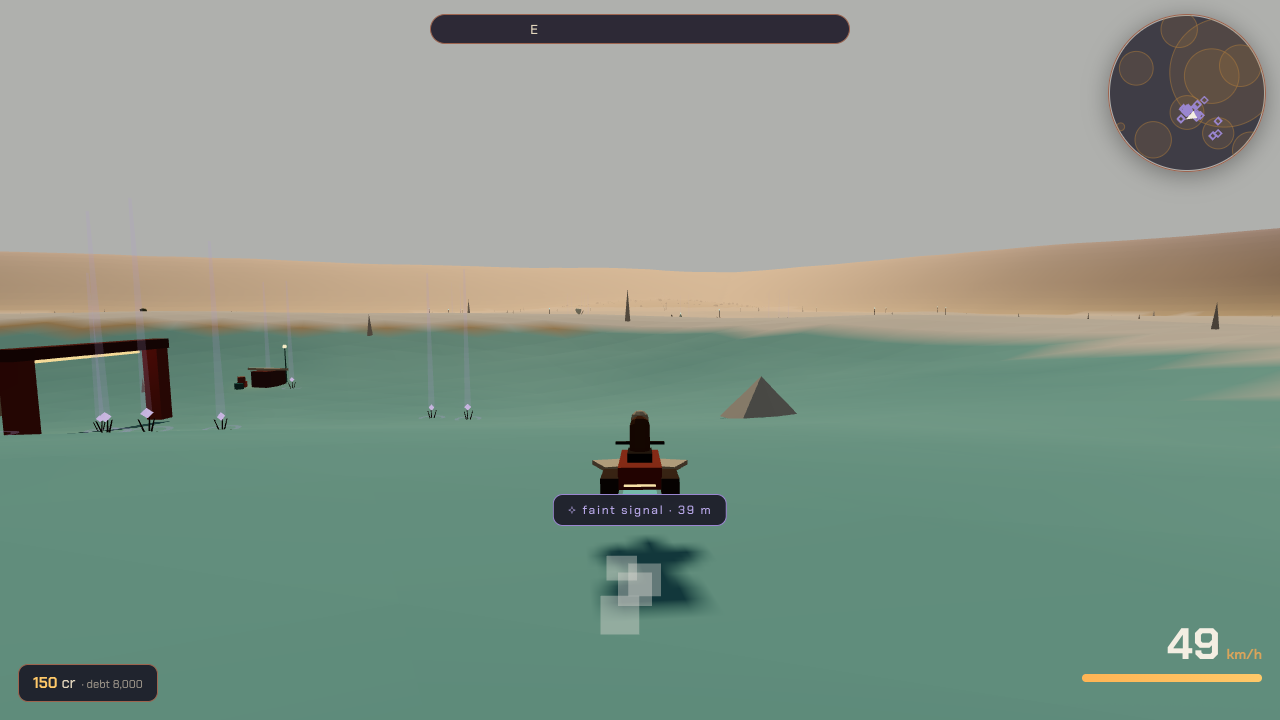
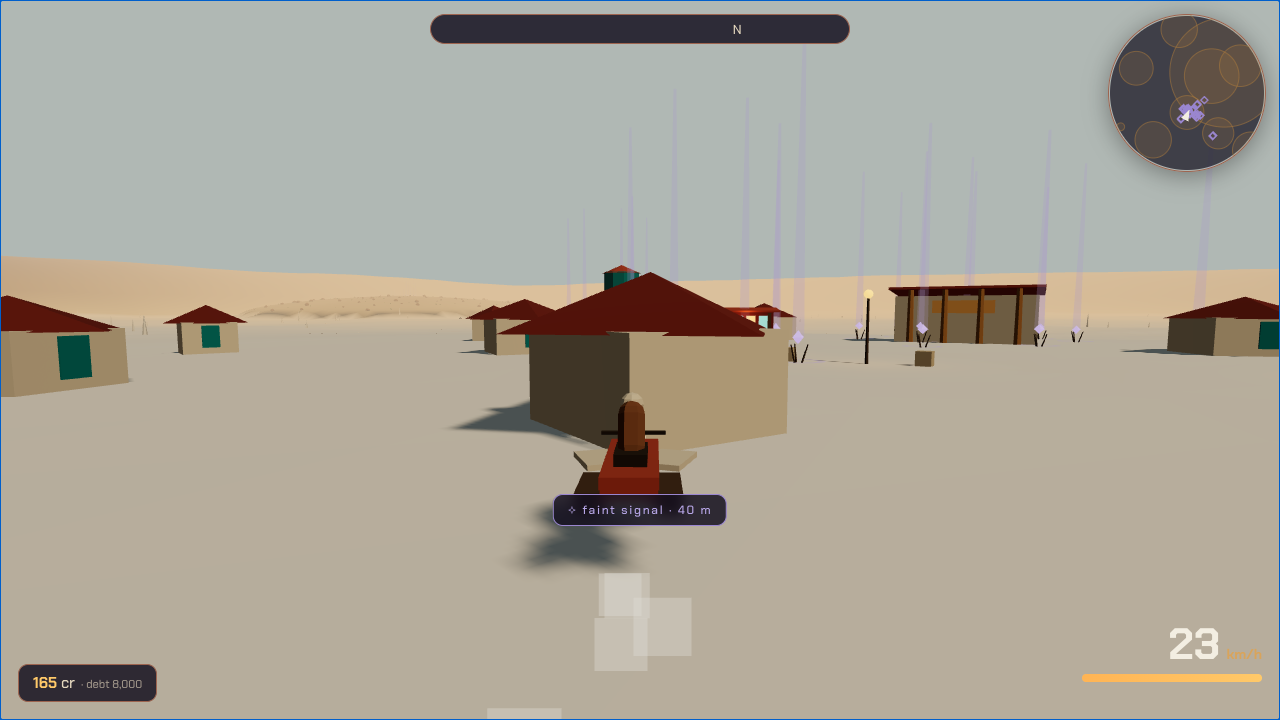
builder builder #12: Builder iter 12: lab→game tuning (handling-scaled drift-exit kick/refund in Bike.tsx + garage blurb; cache glimmer 0.09→0.13), benches re-mirrored, portraits rounds 9–10 → FULL HO

diff --git a/src/world/regions/upgrade-curve-sandbox/Graphs.tsx b/src/world/regions/upgrade-curve-sandbox/Graphs.tsx
@@ -8,7 +8,7 @@ import React, { useEffect, useRef } from 'react';
 import {
   PHYS, STOCK, KMH, TAPE_S, BOOST_ON_T,
   runLaunch, terminalMs, boostHoldS, boostRefillS,
-  kickOf, refundOf, levelCost, levelCosts, maxLevel,
+  kickOf, refundOf, kickCapOf, refundCapOf, levelCost, levelCosts, maxLevel,
   type Ladder, type Pips, type Run,
 } from './physics';
 
@@ -197,16 +197,19 @@ function boostDutyPct(level: number) {
 
 /* ------------------------------------------------- FIG 3 drift-exit kick */
 
-function drawKick(ctx: Ctx, w: number, h: number) {
+function drawKick(ctx: Ctx, w: number, h: number, pips: Pips, ladder: Ladder) {
   const xMax = 4;
+  const L = maxLevel(ladder);
+  const kMax = Math.ceil((kickCapOf(L) * 1.15) / 2) * 2; // headroom past the top cap
+  const rMax = refundCapOf(L) * 1.18;
   const b = bounds(w, h);
   const X = (t: number) => b.x0 + (t / xMax) * (b.x1 - b.x0);
-  const Y = (k: number) => b.y1 - (k / 5) * (b.y1 - b.y0);
-  const Y2 = (m: number) => b.y1 - (m / 0.35) * (b.y1 - b.y0);
+  const Y = (k: number) => b.y1 - (k / kMax) * (b.y1 - b.y0);
+  const Y2 = (m: number) => b.y1 - (m / rMax) * (b.y1 - b.y0);
 
   frame(ctx, b,
     [0, 1, 2, 3, 4].map((t) => ({ v: t, label: `${t}s` })),
-    [0, 1.25, 2.5, 3.75, 5].map((v) => ({ v, label: v.toFixed(v % 1 ? 2 : 0) })), X, Y);
+    [0, 0.25, 0.5, 0.75, 1].map((f) => ({ v: f * kMax, label: (f * kMax).toFixed(f * kMax % 1 ? 1 : 0) })), X, Y);
   txt(ctx, 'kick impulse →', ML - 42, MT - 8, INK_SOFT, 'left', 9);
 
   ctx.save();
@@ -214,22 +217,33 @@ function drawKick(ctx: Ctx, w: number, h: number) {
   ctx.fillRect(b.x0, b.y0, b.x1 - b.x0, b.y1 - b.y0);
   ctx.restore();
 
-  // drift hold curve
+  // stock ghost (handling 0)
+  const ghost: [number, number][] = [];
+  for (let t = 0; t <= xMax; t += 0.05) ghost.push([X(t), Y(kickOf(t, 0))]);
+  line(ctx, ghost, 'rgba(27,21,38,0.35)', 1.6);
+  line(ctx, [[b.x0, Y(kickCapOf(0))], [b.x1, Y(kickCapOf(0))]], 'rgba(27,21,38,0.28)', 1, [3, 4]);
+
+  // current fit drift-hold curve
+  const cap = kickCapOf(pips.handling);
   const pts: [number, number][] = [];
-  for (let t = 0; t <= xMax; t += 0.05) pts.push([X(t), Y(kickOf(t))]);
+  for (let t = 0; t <= xMax; t += 0.05) pts.push([X(t), Y(kickOf(t, pips.handling))]);
   line(ctx, pts, RUST, 2.4);
-  line(ctx, [[b.x0, Y(PHYS.kickCap)], [b.x1, Y(PHYS.kickCap)]], OCHRE_TXT, 1, [5, 4]);
-  dot(ctx, X(PHYS.kickCap / PHYS.kickPerS), Y(PHYS.kickCap));
-  txt(ctx, `caps at ${PHYS.kickCap} · ${(PHYS.kickCap / PHYS.kickPerS).toFixed(2)} s held`, X(2.0), Y(PHYS.kickCap) - 11, RUST_DEEP);
+  line(ctx, [[b.x0, Y(cap)], [b.x1, Y(cap)]], OCHRE_TXT, 1, [5, 4]);
+  dot(ctx, X(cap / (PHYS.kickPerS * (1 + pips.handling * PHYS.driftGainPerHandling))), Y(cap));
+  txt(ctx, `L${pips.handling} caps at ${cap.toFixed(1)} · ${(cap / (PHYS.kickPerS * (1 + pips.handling * PHYS.driftGainPerHandling))).toFixed(2)} s held`, X(2.0), Y(cap) - 11, RUST_DEEP);
 
-  // meter refund (right axis)
+  // meter refund (right axis) — stock ghost then current
+  const ghost2: [number, number][] = [];
+  for (let t = 0; t <= xMax; t += 0.05) ghost2.push([X(t), Y2(refundOf(t, 0))]);
+  line(ctx, ghost2, 'rgba(46,140,140,0.35)', 1.2, [3, 4]);
+  const rcap = refundCapOf(pips.handling);
   const pts2: [number, number][] = [];
-  for (let t = 0; t <= xMax; t += 0.05) pts2.push([X(t), Y2(refundOf(t))]);
+  for (let t = 0; t <= xMax; t += 0.05) pts2.push([X(t), Y2(refundOf(t, pips.handling))]);
   line(ctx, pts2, TEAL, 1.8, [6, 4]);
-  dot(ctx, X(PHYS.refundCap / PHYS.refundPerS), Y2(PHYS.refundCap), 2.8, '#9ADBD4');
-  txt(ctx, 'meter refund 0.35 @ 3.5 s', b.x1 - 4, Y2(0.35) - 10, TEAL, 'right', 9.5);
+  dot(ctx, X(rcap / (PHYS.refundPerS * (1 + pips.handling * PHYS.driftGainPerHandling))), Y2(rcap), 2.8, '#9ADBD4');
+  txt(ctx, `refund ${rcap.toFixed(2)} @ ${(rcap / (PHYS.refundPerS * (1 + pips.handling * PHYS.driftGainPerHandling))).toFixed(1)} s`, b.x1 - 4, Y2(rcap) - 10, TEAL, 'right', 9.5);
 
-  txt(ctx, 'NOTHING HERE COSTS A CREDIT — kick & refund are pip-independent in the shipped build.',
+  txt(ctx, 'The gyro cage pays at the exit — same slide, fatter kick, deeper refund.',
     (b.x0 + b.x1) / 2, b.y1 - 12, TEAL, 'center', 9.5);
 }
 
@@ -424,14 +438,15 @@ export function LedgerFigures({ pips, ladder, avgCr }: { pips: Pips; ladder: Lad
       />
       <Figure
         n="03" title="Drift-exit — kick & refund"
-        aria="Drift exit impulse and boost-meter refund against drift hold time; identical at every upgrade level."
-        deps={[]}
+        aria="Drift exit impulse and boost-meter refund against drift hold time, stock versus the current handling fit."
+        deps={[pips.handling, ladder]}
         legend={<>
-          <Swatch kind="rust" label="kick impulse" />
-          <Swatch kind="teal" label="meter refund" />
+          <Swatch kind="rust" label={`kick · handling L${pips.handling}`} />
+          <Swatch kind="teal" label="meter refund · current" />
+          <Swatch kind="ghost" label="stock (L0)" />
         </>}
-        foot={<>Skill pays here, not credits. If handling is to matter at the exit, hook the cap (4.5) or the per-second rate (2.4) to a pip.</>}
-        draw={(ctx, w, h) => drawKick(ctx, w, h)}
+        foot={<>Since builder iter 12 the gyro cage reaps exits: rate ×(1+0.14·level), caps 4.5+0.9·level impulse and 0.35+0.05·level meter — handling now buys drift economy, not just steering.</>}
+        draw={(ctx, w, h) => drawKick(ctx, w, h, pips, ladder)}
       />
       <Figure
         n="04" title="Top speed per coil level"

diff --git a/src/world/regions/upgrade-curve-sandbox/physics.ts b/src/world/regions/upgrade-curve-sandbox/physics.ts
@@ -10,7 +10,9 @@
  *   steer  = (1.9 + handling*0.22) / (1 + speed/30)
  *   drain  = 0.26 - boost*0.035   per second while boosting (meter > 0.02)
  *   regen  = 0.07 + boost*0.02 (+0.01 airborne) per second otherwise
- *   kick   = min(4.5, driftT*2.4) impulse, refund = min(0.35, driftT*0.1)
+ *   driftGain = 1 + handling*0.14 (builder iter 12 — gyros now reap drift exits)
+ *   kick   = min(4.5 + handling*0.9, driftT*2.4*driftGain) impulse
+ *   refund = min(0.35 + handling*0.05, driftT*0.1*driftGain) meter
  *
  * The launch sim integrates the grounded straight-line slice of the physics
  * loop (throttle pinned, salt-pan grip 1) so the graphs, the skidpad replay
@@ -35,6 +37,10 @@ export const PHYS = {
   boostMin: 0.02,
   kickPerS: 2.4, kickCap: 4.5,
   refundPerS: 0.1, refundCap: 0.35,
+  // builder iter 12: handling ladder now scales drift-exit returns (was Fig 03's finding)
+  driftGainPerHandling: 0.14,
+  kickCapPerHandling: 0.9,
+  refundCapPerHandling: 0.05,
 } as const;
 
 export const SHIPPED_MAX = 3;
@@ -87,8 +93,12 @@ export const terminalMs = (e: number, boosting: boolean) => {
 export const steerRateAt = (kmh: number, h: number) =>
   (PHYS.steerBase + PHYS.steerPerHandling * h) / (1 + kmh / KMH / PHYS.steerFalloff);
 
-export const kickOf = (driftT: number) => Math.min(PHYS.kickCap, driftT * PHYS.kickPerS);
-export const refundOf = (driftT: number) => Math.min(PHYS.refundCap, driftT * PHYS.refundPerS);
+export const kickCapOf = (handling: number) => PHYS.kickCap + handling * PHYS.kickCapPerHandling;
+export const kickOf = (driftT: number, handling = 0) =>
+  Math.min(kickCapOf(handling), driftT * PHYS.kickPerS * (1 + handling * PHYS.driftGainPerHandling));
+export const refundCapOf = (handling: number) => PHYS.refundCap + handling * PHYS.refundCapPerHandling;
+export const refundOf = (driftT: number, handling = 0) =>
+  Math.min(refundCapOf(handling), driftT * PHYS.refundPerS * (1 + handling * PHYS.driftGainPerHandling));
 export const KICK_CAP_T = PHYS.kickCap / PHYS.kickPerS; // 1.875 s
 
 export const HUNDRED_MS = 100 / KMH; // 100 km/h in m/s, on the game's own factor
@@ -227,7 +237,7 @@ export function exportPayload(pips: Pips, ladder: Ladder, m: Metrics, stock: Met
     },
     notes: [
       'Flat salt pan, grip 1, throttle pinned; launch script boosts from t=0.7 s.',
-      'Drift-exit kick and meter refund are pip-independent constants in the shipped build (kick cap 4.5 @ 1.875 s).',
+      'Drift-exit returns scale with the handling ladder since builder iter 12 (gain ×(1+0.14·level); caps 4.5+0.9·level kick impulse, 0.35+0.05·level meter refund).',
       ladder === 'dream'
         ? 'DREAM LADDER: levels 4–5 extrapolate shipped linear per-level gains; costs double past 1800. Not shipped.'
         : 'Shipped ladder 0–3, cost ladder [400, 900, 1800] per part (GaragePanel.tsx).',

diff --git a/src/world/regions/signal-cache-bench/meta.ts b/src/world/regions/signal-cache-bench/meta.ts
@@ -11,7 +11,7 @@ export const meta = {
   tags: ['exploration', 'readability', 'accessibility', 'cvd', 'r3f'],
   client: 'Driftline exploration & accessibility strike team',
   caseStudy:
-    'DESIGN.md reserves lore-violet #9A86D0 for codex finds and forbids colour-only signage, but the cache pickup had never been audited end-to-end: the octahedron\'s emissive 1.5, the 0.09-opacity glimmer and the 13 m capture ring were tuned by eye on a sunny salt flat, and nobody had watched them against a dusk horizon, a night sky or a storm wall. This bench renders the shipping assembly from SignalCaches.tsx on a distance ladder that runs past the 340 m hail cutoff, swaps the sky for the real day/dusk/night keyframes from Sky.tsx, and lays sand-haze storm fog over the top. The shipping HUD chip and minimap diamond are rebuilt as live replicas — the chip even drops out past 340 m like the real store logic — so 3D beacon and 2D chrome pass or fail together, under Machado CVD matrices applied to the whole stage. Sliders for emissive, glimmer and ring opacity feed contrast tables that grade against honest bars, and the separation table proves the violet stays distinct from every mission colour — and when it nearly doesn\'t under deuteranopia, that the ⟡ glyph and open-diamond shape still name it.',
+    'DESIGN.md reserves lore-violet #9A86D0 for codex finds and forbids colour-only signage, but the cache pickup had never been audited end-to-end: the octahedron\'s emissive 1.5, the 0.09-opacity glimmer (since tuned to 0.13) and the 13 m capture ring were first tuned by eye on a sunny salt flat, and nobody had watched them against a dusk horizon, a night sky or a storm wall. This bench renders the shipping assembly from SignalCaches.tsx on a distance ladder that runs past the 340 m hail cutoff, swaps the sky for the real day/dusk/night keyframes from Sky.tsx, and lays sand-haze storm fog over the top. The shipping HUD chip and minimap diamond are rebuilt as live replicas — the chip even drops out past 340 m like the real store logic — so 3D beacon and 2D chrome pass or fail together, under Machado CVD matrices applied to the whole stage. Sliders for emissive, glimmer and ring opacity feed contrast tables that grade against honest bars, and the separation table proves the violet stays distinct from every mission colour — and when it nearly doesn\'t under deuteranopia, that the ⟡ glyph and open-diamond shape still name it.',
 };
 
 export default meta;

diff --git a/src/world/regions/rep-reaction-atlas/meta.ts b/src/world/regions/rep-reaction-atlas/meta.ts
@@ -1,0 +1,17 @@
+/**
+ * Rep Reaction Atlas — demo meta. Follows the demo sheet format
+ * ({ title, description, tags, client, caseStudy }); `blurb` feeds lab cards.
+ */
+export const meta = {
+  title: 'Rep Reaction Atlas',
+  description:
+    'A dispatch-office card table for the reputation system. Scrub Salt Guild ◆, Choir ◉ and Reclaimer ▲ standing from hostile to kin on amber needle gauges, then run a seeded courier around a scripted ten-band survey ride while the bench restages the exact shipping radio pipeline — band detection, weight rules, voice picks and subtitle lines, live from the character library. Three faction-coloured ledger columns break down which surfaces answer to standing (radio airtime) and which stay silent (what they say, NPC callouts, board gates, shop prices); a coverage matrix read straight from the live mailing lists marks every cell shipped / runtime-ready / gap with glyph + colour, and flags the findings — the unreachable hostile band, ghost driftline rep, the workshed sandbox leaking its own radio band — with a copy-ready claim sheet for the writers.',
+  blurb:
+    'Scrub faction standing from hostile to kin and watch the desert change its voice: a scripted ride restages the exact radio/bark pipeline, gauges show what ships at each band, and the coverage matrix flags the gaps writers can claim.',
+  tags: ['tool', 'reputation', 'radio', 'factions', 'content-coverage'],
+  client: 'Driftline dispatch office',
+  caseStudy:
+    'Reputation had three ways to matter on paper — radio weighting, board gates, shop prices — but only one shipped, and nobody could see it. The Atlas restages the shipping pipeline honestly: the band rule, the weight formula and the chatter cadence are mirrored line-for-line from the HUD, fed by the live character and mission libraries with no fixtures. Sliders stand in for standing; a scripted courier loops every on-world band so each faction is heard at home and abroad. Needle gauges tag every standing with its posture band (hostile/wary/neutral/friendly/kin, matching the ledger bench’s rail proposal), and a coverage matrix separates shipped behaviour from runtime-ready hooks from true gaps — shape + colour, never colour alone. The export button copies the whole sheet as a claim list for writers.',
+};
+
+export default meta;

diff --git a/src/world/regions/upgrade-curve-sandbox/Controls.tsx b/src/world/regions/upgrade-curve-sandbox/Controls.tsx
@@ -7,14 +7,14 @@
 import { useMemo, useState } from 'react';
 import {
   PHYS, STOCK, PRESETS, KMH, HUNDRED_MS,
-  computeMetrics, levelCost, maxLevel, totalSunk,
+  computeMetrics, kickCapOf, levelCost, maxLevel, totalSunk,
   exportPayload, AVG_MISSION_CR,
   type Ladder, type Pips, type PartKey, type Metrics,
 } from './physics';
 
 const PARTS: { key: PartKey; name: string; moves: string }[] = [
   { key: 'engine', name: 'Engine coils', moves: `accel +${PHYS.accPerEngine}/lvl · cap +${PHYS.vmaxPerEngine}/lvl` },
-  { key: 'handling', name: 'Gyro cage', moves: `steer +${PHYS.steerPerHandling}/lvl · grip +1.6/lvl` },
+  { key: 'handling', name: 'Gyro cage', moves: `steer +${PHYS.steerPerHandling}/lvl · grip +1.6/lvl · drift ×1.14/lvl` },
   { key: 'boost', name: 'Boost cell', moves: `drain −${PHYS.drainPerBoost}/lvl · regen +${PHYS.regenPerBoost}/lvl` },
 ];
 
@@ -31,7 +31,7 @@ function fmtDelta(cur: number | null, stock: number | null, unit: string, invert
 
 /* --------------------------------------------------------- delta ledger */
 
-function DeltaLedger({ m, stock }: { m: Metrics; stock: Metrics }) {
+function DeltaLedger({ m, stock, handling }: { m: Metrics; stock: Metrics; handling: number }) {
   const rows: { label: string; cur: string; ref: string; delta: { s: string; cls: string } }[] = [
     {
       label: '0→100 km/h · boost tape',
@@ -67,8 +67,8 @@ function DeltaLedger({ m, stock }: { m: Metrics; stock: Metrics }) {
     },
     {
       label: 'drift-exit kick cap',
-      cur: `${PHYS.kickCap} impulse`, ref: `${PHYS.kickCap} impulse`,
-      delta: { s: '±0 · free', cls: '' },
+      cur: `${kickCapOf(handling).toFixed(1)} impulse`, ref: `${kickCapOf(0).toFixed(1)} impulse`,
+      delta: fmtDelta(kickCapOf(handling), kickCapOf(0), ''),
     },
   ];
   return (
@@ -185,7 +185,7 @@ export function BenchPanel({ pips, ladder, onPips, onLadder }: BenchPanelProps) 
         {ladder === 'dream' && <em className="ucs-dream-note">dream ladder — same linear gains, ×2 cost. Not shipped.</em>}
       </div>
 
-      <DeltaLedger m={m} stock={stock} />
+      <DeltaLedger m={m} stock={stock} handling={pips.handling} />
 
       <div className="ucs-bench-row">
         <button

diff --git a/src/game/Bike.tsx b/src/game/Bike.tsx
@@ -97,13 +97,15 @@ export default function Bike() {
       c.driftTime += dt;
       c.wasDrifting = true;
     } else if (c.wasDrifting) {
-      // boost-on-exit reward
-      const reward = Math.min(0.35, c.driftTime * 0.1);
+      // boost-on-exit reward — a tuned gyro cage reaps more from the same slide
+      // (upgrade-curve-sandbox Fig 03: refund cap/rate + kick were pip-independent)
+      const driftGain = 1 + up.handling * 0.14;
+      const reward = Math.min(0.35 + up.handling * 0.05, c.driftTime * 0.1 * driftGain);
       if (reward > 0.04) {
         c.boost = Math.min(1, c.boost + reward);
-        const kick = Math.min(4.5, c.driftTime * 2.4);
+        const kick = Math.min(4.5 + up.handling * 0.9, c.driftTime * 2.4 * driftGain);
         body.applyImpulse({ x: _fwd.x * kick, y: 0, z: _fwd.z * kick }, true);
-        audio.blip(520, 0.1);
+        audio.blip(520 + up.handling * 40, 0.1);
       }
       if (c.driftTime > 0.4) {
         ride.bestDriftS = Math.max(ride.bestDriftS, c.driftTime);

diff --git a/src/world/regions/signal-cache-bench/spec.ts b/src/world/regions/signal-cache-bench/spec.ts
@@ -22,7 +22,7 @@ export interface BenchConfig {
   ladder: LadderId;
   /** octahedron emissive intensity (shipped 1.5) */
   emissive: number;
-  /** glimmer beam opacity (shipped 0.09) */
+  /** glimmer beam opacity (shipped 0.13 — builder iter 12 storm/dusk tune) */
   glimmer: number;
   /** ground ring opacity (shipped 0.3) */
   ring: number;
@@ -35,7 +35,7 @@ export const DEFAULT_CONFIG: BenchConfig = {
   storm: 'off',
   ladder: 'standard',
   emissive: 1.5,
-  glimmer: 0.09,
+  glimmer: 0.13,
   ring: 0.3,
   motion: true,
   cvd: 'none',
@@ -66,7 +66,7 @@ export const SHIPPED = {
     y: 0.7,
   },
   ring: { inner: 1.5, outer: 2.1, opacity: 0.3, y: 0.12 },
-  glimmer: { height: 22, rTop: 0.14, rBottom: 0.5, opacity: 0.09, yOff: 11 },
+  glimmer: { height: 22, rTop: 0.14, rBottom: 0.5, opacity: 0.13, yOff: 11 },
   captureRadius: 13, // caches.ts CAPTURE_RADIUS
   hintRange: 340, // caches.ts HINT_RANGE — hail cutoff for chip/minimap feed
   bounty: 15,

diff --git a/src/game/SignalCaches.tsx b/src/game/SignalCaches.tsx
@@ -94,7 +94,7 @@ export default function SignalCaches() {
             {/* faint vertical glimmer so caches read at range against the sky */}
             <mesh position={[0, 11, 0]}>
               <cylinderGeometry args={[0.14, 0.5, 22, 6, 1, true]} />
-              <meshBasicMaterial color={CACHE_VIOLET} transparent opacity={0.09} side={THREE.DoubleSide} depthWrite={false} />
+              <meshBasicMaterial color={CACHE_VIOLET} transparent opacity={0.13} side={THREE.DoubleSide} depthWrite={false} />
             </mesh>
           </group>
         </group>

diff --git a/src/world/regions/signal-cache-bench/Panel.tsx b/src/world/regions/signal-cache-bench/Panel.tsx
@@ -210,7 +210,7 @@ export function BenchPanel({ cfg, onChange }: { cfg: BenchConfig; onChange: (c: 
         />
       </label>
       <label className="scb-slider">
-        <span>glimmer opacity <b>{cfg.glimmer.toFixed(3)}</b><em>shipped 0.090</em></span>
+        <span>glimmer opacity <b>{cfg.glimmer.toFixed(3)}</b><em>shipped 0.130</em></span>
         <input
           type="range" min={0} max={0.3} step={0.005} value={cfg.glimmer}
           onChange={(e) => onChange({ ...cfg, glimmer: +e.target.value })}

diff --git a/src/ui/GaragePanel.tsx b/src/ui/GaragePanel.tsx
@@ -8,7 +8,7 @@ import { audio } from '../audio/audio';
 const PART_COSTS = [400, 900, 1800];
 const PARTS = [
   { key: 'engine', name: 'Engine coils', blurb: '+accel, +top speed' },
-  { key: 'handling', name: 'Gyro cage', blurb: '+steering, +grip' },
+  { key: 'handling', name: 'Gyro cage', blurb: '+steering, +grip, +drift returns' },
   { key: 'boost', name: 'Boost cell', blurb: '+capacity, +regen' },
   { key: 'shield', name: 'Cargo shield', blurb: 'soaks impacts for fragile cargo' },
 ] as const;

diff --git a/.ralph/PROGRESS.md b/.ralph/PROGRESS.md
@@ -1,5 +1,58 @@
 # Progress
 
+## Status — iteration 12 (drift economy tuned from lab findings; portraits FULL HOUSE 56/56; 134 caches / 0 orphans)
+
+**Done (typecheck/build/validate green: 36 regions, 56 characters, 94 missions, 176 lore, 134 caches; playtest green: 60.5 fps, 0 errors, 0 failed requests, 31.6% scene change, signal chip live in HUD):**
+- **Lab→game: drift economy** (upgrade-curve-sandbox Fig 03 finding shipped) —
+  `src/game/Bike.tsx` drift-exit returns now scale with the handling ladder:
+  `driftGain = 1 + handling·0.14` on refund + kick rates; caps `4.5 + 0.9·L`
+  impulse / `0.35 + 0.05·L` meter; exit blip pitch rises 40 Hz per level. Stock
+  feel unchanged; gyro cage finally buys drift economy, not just steering.
+  Garage blurb "+steering, +grip, +drift returns". The sandbox was re-mirrored
+  per its own NOTES procedure (physics.ts constants + header, Fig 03 now draws
+  stock ghost vs current fit with handling-aware caps, delta-ledger kick-cap row
+  live, export note + Controls moves line + its NOTES addendum).
+- **Lab→game: cache glimmer 0.09 → 0.13** (signal-cache-bench storm/dusk contrast
+  finding shipped) in `SignalCaches.tsx`; bench mirrors updated (spec.ts ×3,
+  Panel.tsx shipped label, meta.ts, NOTES addendum marks the finding shipped).
+- **Portraits rounds 9+10 → FULL HOUSE 56/56** — painted + wired 14 this pass:
+  advocate-reyes, caretaker-7 (rover object-portrait), impa-vell, mallow,
+  marlowe-air-check, nyx-ala, ook, prior-chance, sable, tally (archive-room
+  object-portrait) — then writers landed 4 new sheets mid-iteration
+  (dusk-marron-kell, hedd-kline, hespa-vole, sera-vann), painted + wired those
+  too. Roster probe re-run at the end: NONE unpainted.
+- **Orphan sweep (standing duty)** — writers landed 6 lore this cycle (the exact
+  6 intents restocked last iteration!); placed all: brass-cup-dispute →
+  saltmouth:water-tower, first-wall-tally → saltmouth:spawn (courier berth),
+  mother-census-ledger → choirhollow:crater-rim, night-mirror-harvest →
+  mothersgate:approach, skyship-pennant-code → skydocks:mesa-top,
+  winch-safety-catechism → skydocks:winch-base. 128→**134 caches, 0 orphans**;
+  no anchor pushed past 5 (crowding budget ~6, exchange stays the max at 11).
+  Final audit re-run right before finishing: still 0 orphans.
+- **Backlog restock** — 11 intents: 4 missions (mallow soup-standard lap,
+  impa-vell ledger job, nyx-ala dune scout, advocate-reyes pennant race w/
+  kindness flag), 4 lore (riding-black field guide, open-drawer audit trail,
+  Air Check three-new-beads broadcast, forty-years-of-one-groan tract),
+  3 demos (portrait-gallery-bench, drift-economy-bench, night-radio-bench).
+
+**Next / known issues:**
+- **Portrait roster discipline**: full house today, but writers landed 4 sheets
+  inside one builder iteration. Re-run the roster probe (characters dir vs both
+  portrait dirs + bad `portrait` refs) at the START of every iteration and once
+  more before finishing. New-sheet paint batches of ~5 keep rate limits calm.
+- **Re-run the orphan audit every iteration** (probe: caches.json lore ∪
+  mission `lore:` flags vs lore dir) — run it again right before finishing.
+- Anchor crowding: saltmouth:exchange sits at 11 (above the ~6 fan-out comfort
+  line); future saltmouth placements should prefer spawn/gate-east/water-tower
+  (<5) or spread to flats-pan/overlook. cache-density-planner has the map.
+- The repo is HOT: writers land content mid-iteration (4 characters + 6
+  missions + 6 lore this pass); run typecheck+validate+build LATE, and re-run
+  the audits right before finishing.
+- Chunk-size warning persists (rapier 2.2 MB) — known, lazy routes keep it off
+  the title path.
+- Departure art is shared for all spawns; DESIGN.md's per-region art slot
+  remains open for when respawn points move.
+
 ## Status — iteration 11 (band-aware radio; portraits round 8 → 40/52 painted; typecheck fix; 128 caches / 0 orphans)
 
 **Done (typecheck/build/validate green; playtests green: 60–60.5 fps, 0 errors, 0 failed requests, 99.9% scene change with chapter card dismissed at 46 km/h):**

diff --git a/.ralph/DESIGN.md b/.ralph/DESIGN.md
@@ -128,7 +128,7 @@ Faction colors: Salt Guild `ochre #B07C3A`, Choir `teal-bright #57C4B8`, Reclaim
 - Heading convention (documented once): `telemetry.heading` is a true bearing,
   0 = north (−z); world forward = (sin h, 0, −cos h). Camera, dust and HUD all
   follow this.
-- Scale note (iteration 9): 117 caches across 11 on-world regions; fan-out
+- Scale note (iteration 12): 134 caches across 11 on-world regions; fan-out
   (golden-angle, r = 5 + k·2.2 m, capture 13 m) tolerates ~6 per anchor with
   clean spacing — beyond that, spread placements to a neighbouring anchor.
   Crowding thresholds live in the `cache-density-planner` demo intent.
@@ -174,3 +174,25 @@ Faction colors: Salt Guild `ochre #B07C3A`, Choir `teal-bright #57C4B8`, Reclaim
   reduced-motion parks the pulse/scale; min-height on the tip slot to stop layout
   shift. Auto-dismiss 1.4 s after clearance so playtesters and keyboard-shy
   players aren't gated.
+
+## Drift economy (iteration 12)
+
+- **Handling now pays at drift exit** (upgrade-curve-sandbox Fig 03 finding applied):
+  `driftGain = 1 + handling·0.14` scales both the exit refund rate and the kick rate;
+  caps rise per level — kick `4.5 + 0.9·L` impulse, refund `0.35 + 0.05·L` meter.
+  Stock (L0) feel is unchanged; L3 reaps the full slide at 1.26 s held vs 1.875 s stock.
+  The exit blip rises slightly with the ladder (520+40·L Hz) — a subtle "my gyros are
+  better" cue. Garage blurb: "Gyro cage — +steering, +grip, +drift returns".
+- **Cache glimmer shipped at 0.13** (was 0.09): signal-cache-bench storm/dusk contrast
+  finding applied to `SignalCaches.tsx`; bench mirrors (spec/panel/meta/NOTES) updated
+  in the same pass — the bench's SHIPPED table must always mirror the game.
+
+## Portraits — full house (iteration 12)
+
+- All 56 characters now have painted portraits on disk: 50 in
+  `public/images/characters/` + 7 writer-painted in `public/images/articles/characters/`
+  (spence-sorrel et al.; both paths are `withBase`-able from the `portrait` field).
+- Object-portraits are sanctioned for non-human cast: caretaker-7 (rover on a moonlit
+  pan of half-drowned panels) and tally (the amber-lit archive room itself) sit in the
+  same square storybook style. Writers add characters constantly — re-run the roster
+  probe (characters dir vs both portrait dirs) before finishing any iteration.
